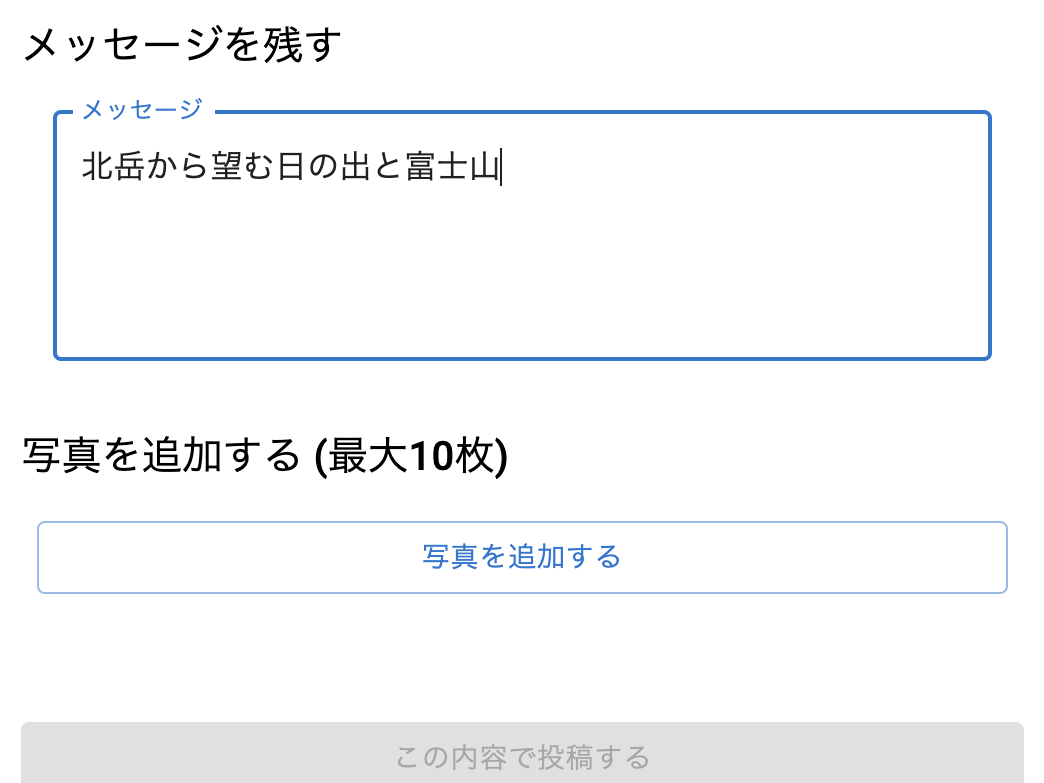
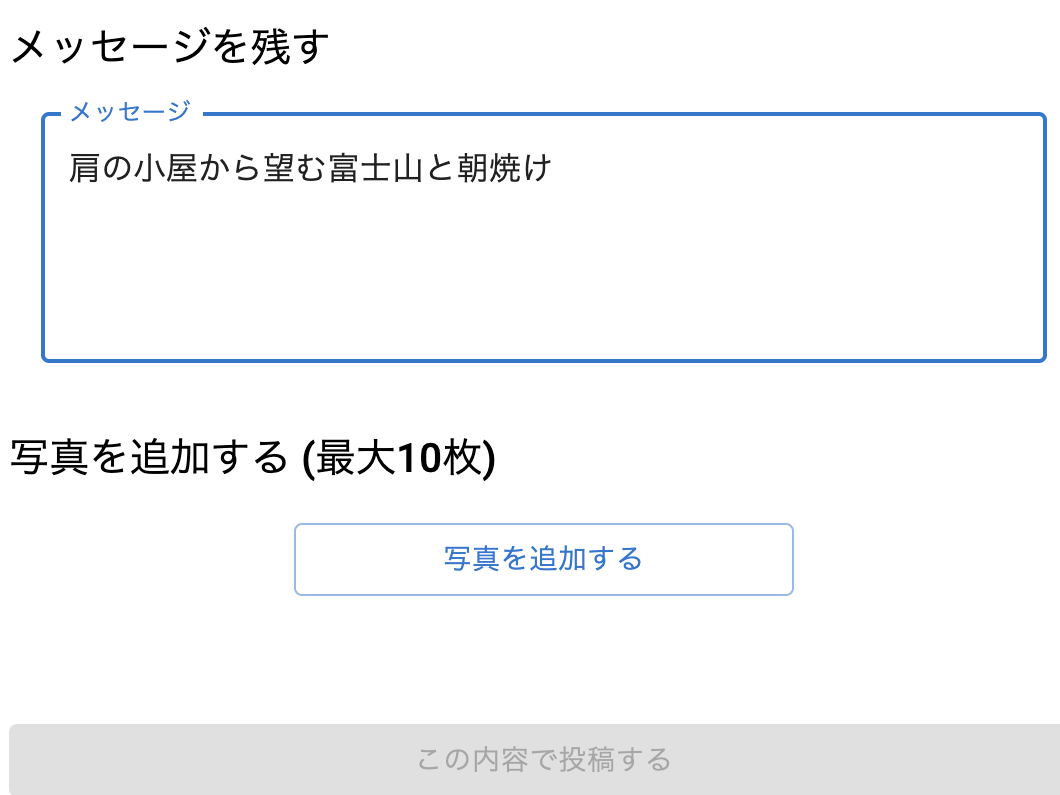
Increase input pattern of latitude and longitude.

diff --git a/app/javascript/components/InputLatLng.jsx b/app/javascript/components/InputLatLng.jsx
@@ -1,0 +1,144 @@
+import React from 'react';
+import { styled, useTheme } from '@mui/material/styles';
+import Box from '@mui/material/Box';
+import Button from '@mui/material/Button';
+import Typography from '@mui/material/Typography';
+import TextField from '@mui/material/TextField';
+import InputAdornment from '@mui/material/InputAdornment';
+import ToggleButton from '@mui/material/ToggleButton';
+import ToggleButtonGroup from '@mui/material/ToggleButtonGroup';
+
+const InputLatLng = ({onSetMarker}) => {
+  const [unit, setUnit] = React.useState('decimal');
+  const handleChangeToggle = (event, newUnit) => {
+    setUnit(newUnit);
+  };
+  const inputLatDecimal = React.useRef(null);
+  const inputLngDecimal = React.useRef(null);
+  const inputLatD = React.useRef(null);
+  const inputLatM = React.useRef(null);
+  const inputLatS = React.useRef(null);
+  const inputLngD = React.useRef(null);
+  const inputLngM = React.useRef(null);
+  const inputLngS = React.useRef(null);
+  const handleChangeInputDecimal = () => {
+    if (inputLatDecimal.current.value && inputLngDecimal.current.value) {
+      const point = { lat: parseFloat(inputLatDecimal.current.value), lng: parseFloat(inputLngDecimal.current.value) };
+      onSetMarker(point);
+      console.log("更新");
+    }
+  };
+  const handleChangeInputDMS = () => {
+    if (inputLatD.current.value && inputLngD.current.value) {
+      const convertedLat = parseFloat(inputLatD.current.value) + (inputLatM.current.value/60) + (inputLatS.current.value/3600);
+      const convertedLng = parseFloat(inputLngD.current.value) + (inputLngM.current.value/60) + (inputLngS.current.value/3600);
+      const point = { lat: convertedLat, lng: convertedLng };
+      onSetMarker(point);
+      console.log("更新");
+    }
+  };
+
+  return (
+    <Box sx={{ mt: "8px" }}>
+      <Box sx={{ textAlign: "right" }}>
+        <Typography variant="body2" sx={{ display: "inline", mr: "4px", fontSize: "0.8rem" }}>入力タイプ:</Typography>
+        <ToggleButtonGroup color="primary" size="small" value={unit} exclusive onChange={handleChangeToggle} sx={{ bgcolor: '#fff' }}>
+          <ToggleButton value="decimal">小数</ToggleButton>
+          <ToggleButton value="dms">度•分•秒</ToggleButton>
+        </ToggleButtonGroup>
+      </Box>
+      {unit == 'decimal' &&
+        <Box sx={{ pt: "12px" }}>
+          <Box sx={{ display: "flex", width: "100%", justifyContent: "center", alignItems: "center", mb: "8px" }}>
+            <Typography variant="body2" sx={{ width: "36px", mr: "4px", fontSize: { xs: "0.8rem", md: "0.875rem" } }}>緯度:</Typography>
+            <TextField
+              sx={{ flexGrow: 1, maxWidth: "250px" }}
+              id="lat"
+              type="number"
+              size="small"
+              margin="none"
+              placeholder="例) 35.3608"
+              inputRef={inputLatDecimal} />
+          </Box>
+          <Box sx={{ display: "flex", width: "100%", justifyContent: "center", alignItems: "center", mb: "8px" }}>
+            <Typography variant="body2" sx={{ width: "36px", mr: "4px", fontSize: { xs: "0.8rem", md: "0.875rem" } }}>経度:</Typography>
+            <TextField
+              sx={{ flexGrow: 1, maxWidth: "250px" }}
+              id="lng"
+              type="number"
+              size="small"
+              margin="none"
+              placeholder="例) 138.7275"
+              inputRef={inputLngDecimal} />
+          </Box>
+          <Box sx={{ textAlign: "center"}}>
+            <Button onClick={handleChangeInputDecimal} variant="outlined" size="small" sx={{ maxWidth: "300px" }}>マーカーを設置</Button>
+          </Box>
+        </Box>
+      }
+      {unit == 'dms' &&
+        <Box sx={{ pt: "12px" }}>
+          <Box sx={{ display: "flex", width: "100%", justifyContent: "center", alignItems: "center", mb: "8px" }}>
+            <Typography variant="body2" sx={{ width: "36px", mr: { md: "4px" }, fontSize: { xs: "0.8rem", md: "0.875rem" } }}>緯度:</Typography>
+            <TextField
+              sx={{ flex: 1, mr: "4px", maxWidth: "100px" }}
+              label="度"
+              type="number"
+              size="small"
+              inputRef={inputLatD}
+              InputProps={{ endAdornment: <InputAdornment position="end">°</InputAdornment>, }}
+            />
+            <TextField
+              sx={{ flex: 1, mr: "4px", maxWidth: "100px" }}
+              label="分"
+              type="number"
+              size="small"
+              inputRef={inputLatM}
+              InputProps={{ endAdornment: <InputAdornment position="end">'</InputAdornment>, }}
+            />
+            <TextField
+              sx={{ flex: 1, maxWidth: "100px" }}
+              label="秒"
+              type="number"
+              size="small"
+              inputRef={inputLatS}
+              InputProps={{ endAdornment: <InputAdornment position="end">"</InputAdornment>, }}
+            />
+          </Box>
+          <Box sx={{ display: "flex", width: "100%", justifyContent: "center", alignItems: "center", mb: "8px" }}>
+            <Typography variant="body2" sx={{ width: "36px", mr: { md: "4px" }, fontSize: { xs: "0.8rem", md: "0.875rem" } }}>経度:</Typography>
+            <TextField
+              sx={{ flex: 1, mr: "4px", maxWidth: "100px" }}
+              label="度"
+              type="number"
+              size="small"
+              inputRef={inputLngD}
+              InputProps={{ endAdornment: <InputAdornment position="end">°</InputAdornment>, }}
+            />
+            <TextField
+              sx={{ flex: 1, mr: "4px", maxWidth: "100px" }}
+              label="分"
+              type="number"
+              size="small"
+              inputRef={inputLngM}
+              InputProps={{ endAdornment: <InputAdornment position="end">'</InputAdornment>, }}
+            />
+            <TextField
+              sx={{ flex: 1, maxWidth: "100px" }}
+              label="秒"
+              type="number"
+              size="small"
+              inputRef={inputLngS}
+              InputProps={{ endAdornment: <InputAdornment position="end">"</InputAdornment>, }}
+            />
+          </Box>
+          <Box sx={{ textAlign: "center" }}>
+            <Button onClick={handleChangeInputDMS} variant="outlined" size="small" sx={{ maxWidth: "300px" }}>マーカーを設置</Button>
+          </Box>
+        </Box>
+      }
+    </Box>
+  );
+};
+
+export default InputLatLng

diff --git a/app/javascript/components/MountainMap.jsx b/app/javascript/components/MountainMap.jsx
@@ -7,6 +7,7 @@ import Tab from '@mui/material/Tab';
 import TabPanel from './TabPanel';
 import MountainIntroduction from './MountainIntroduction';
 import TextField from '@mui/material/TextField';
+import InputLatLng from './InputLatLng';
 import InputMessage from './InputMessage';
 import UploadPhotos from './UploadPhotos';
 import HelpToCreatePost from './HelpToCreatePost';
@@ -96,10 +97,7 @@ const MountainMap = (props) => {
   const handleChangeTab = (event, newValue) => {
     setTab(newValue);
   };
-  const inputLat = React.useRef(null);
-  const inputLng = React.useRef(null);
-  const onSetMarker = () => {
-    const point = { lat: parseFloat(inputLat.current.value), lng: parseFloat(inputLng.current.value) };
+  const onSetMarker = (point) => {
     setPin(point);
     setCenter(point);
   };
@@ -318,13 +316,7 @@ const MountainMap = (props) => {
                 <Typography variant="h6" sx={{ fontSize: { xs: '1.1rem', sm: '1.25rem' } }}>撮影地点を決める</Typography>
                 <Box sx={{ py: 2, px: 1, mb: 3 }}>
                   <Typography variant="body2" sx={{ fontSize: { xs: '0.8rem', md: '0.875rem' } }}>マップをクリックもしくは下記に緯度•経度を入力してマーカーを設置する</Typography>
-                  <Box sx={{ display: "flex", width: "100%" }}>
-                    <TextField sx={{ flexGrow: 1, mr: 1 }} id="lat" label="緯度" type="number" size="small" margin="normal" inputRef={inputLat} />
-                    <TextField sx={{ flexGrow: 1, ml: 1 }} id="lng" label="経度" type="number" size="small" margin="normal" inputRef={inputLng} />
-                  </Box>
-                  <Box sx={{ textAlign: "center" }}>
-                    <Button onClick={onSetMarker} variant="outlined" size={highMatches ? 'medium' : 'small'} sx={{ maxWidth: "300px" }}>マーカーを設置</Button>
-                  </Box>
+                  <InputLatLng onSetMarker={onSetMarker} />
                 </Box>
                 <form>
                   <Typography variant="h6">メッセージを残す</Typography>

diff --git a/app/javascript/components/HelpToCreatePost.jsx b/app/javascript/components/HelpToCreatePost.jsx
@@ -40,6 +40,7 @@ const HelpToCreatePost = ({...rest}) => {
           <Box sx={{ p: '16px', mb: '16px', display: 'flex', flexDirection: { xs: 'column', sm: 'row' } }}>
             <Box sx={{ width: { xs: '100%', sm: '40%' } }}>
               <Typography variant="body1" sx={{ mb: '16px', fontSize: { xs: '0.75rem', sm: '0.875rem', md: '1rem' } }}>マップ上をクリックする、もしくは緯度•経度を入力して「マーカーを設置」ボタンを押すことでマップ上に青いピンを設置します。</Typography>
+              <Typography variant="body1" sx={{ mb: '16px', fontSize: { xs: '0.75rem', sm: '0.875rem', md: '1rem' } }}>緯度•経度を入力する場合、入力タイプを「小数」もしくは「度•分•秒」から選択できます。</Typography>
               <Typography variant="body1" sx={{ fontSize: { xs: '0.75rem', sm: '0.875rem', md: '1rem' } }}>投稿を完了するには青いピンの設置が必須となります。</Typography>
             </Box>
             <Box sx={{ width: { xs: '100%', sm: '60%' }, boxSizing: "border-box", p: { xs: '16px 16px 0', sm: '0 16px' }  }}>

diff --git a/app/javascript/components/UploadPhotos.jsx b/app/javascript/components/UploadPhotos.jsx
@@ -42,10 +42,12 @@ const UploadPhotos = ({images, setImages, size, ...rest}) => {
 
   return (
     <>
-      <Button id="btn-upload-photo" variant="outlined" component="label" disabled={overload} fullWidth size={size} {...rest}>
-        写真を追加する
-        <input type="file" multiple accept=".jpg,.jpeg,.png,.gif" onChange={handleChange} onClick={handleClick} hidden />
-      </Button>
+      <Box sx={{ maxWidth: '250px', mx: 'auto' }}>
+        <Button id="btn-upload-photo" variant="outlined" component="label" disabled={overload} fullWidth size={size} {...rest}>
+          写真を追加する
+          <input type="file" multiple accept=".jpg,.jpeg,.png,.gif" onChange={handleChange} onClick={handleClick} hidden />
+        </Button>
+      </Box>
       <Box>
         {images.map((image, i) => (
           <Box key={i} sx={{ display: 'inline-block', p: { xs: '4px 24px 4px 4px', md: '8px 26px 8px 8px' }, m: '4px', border: '1px solid #2196f3', position: 'relative' }}>
